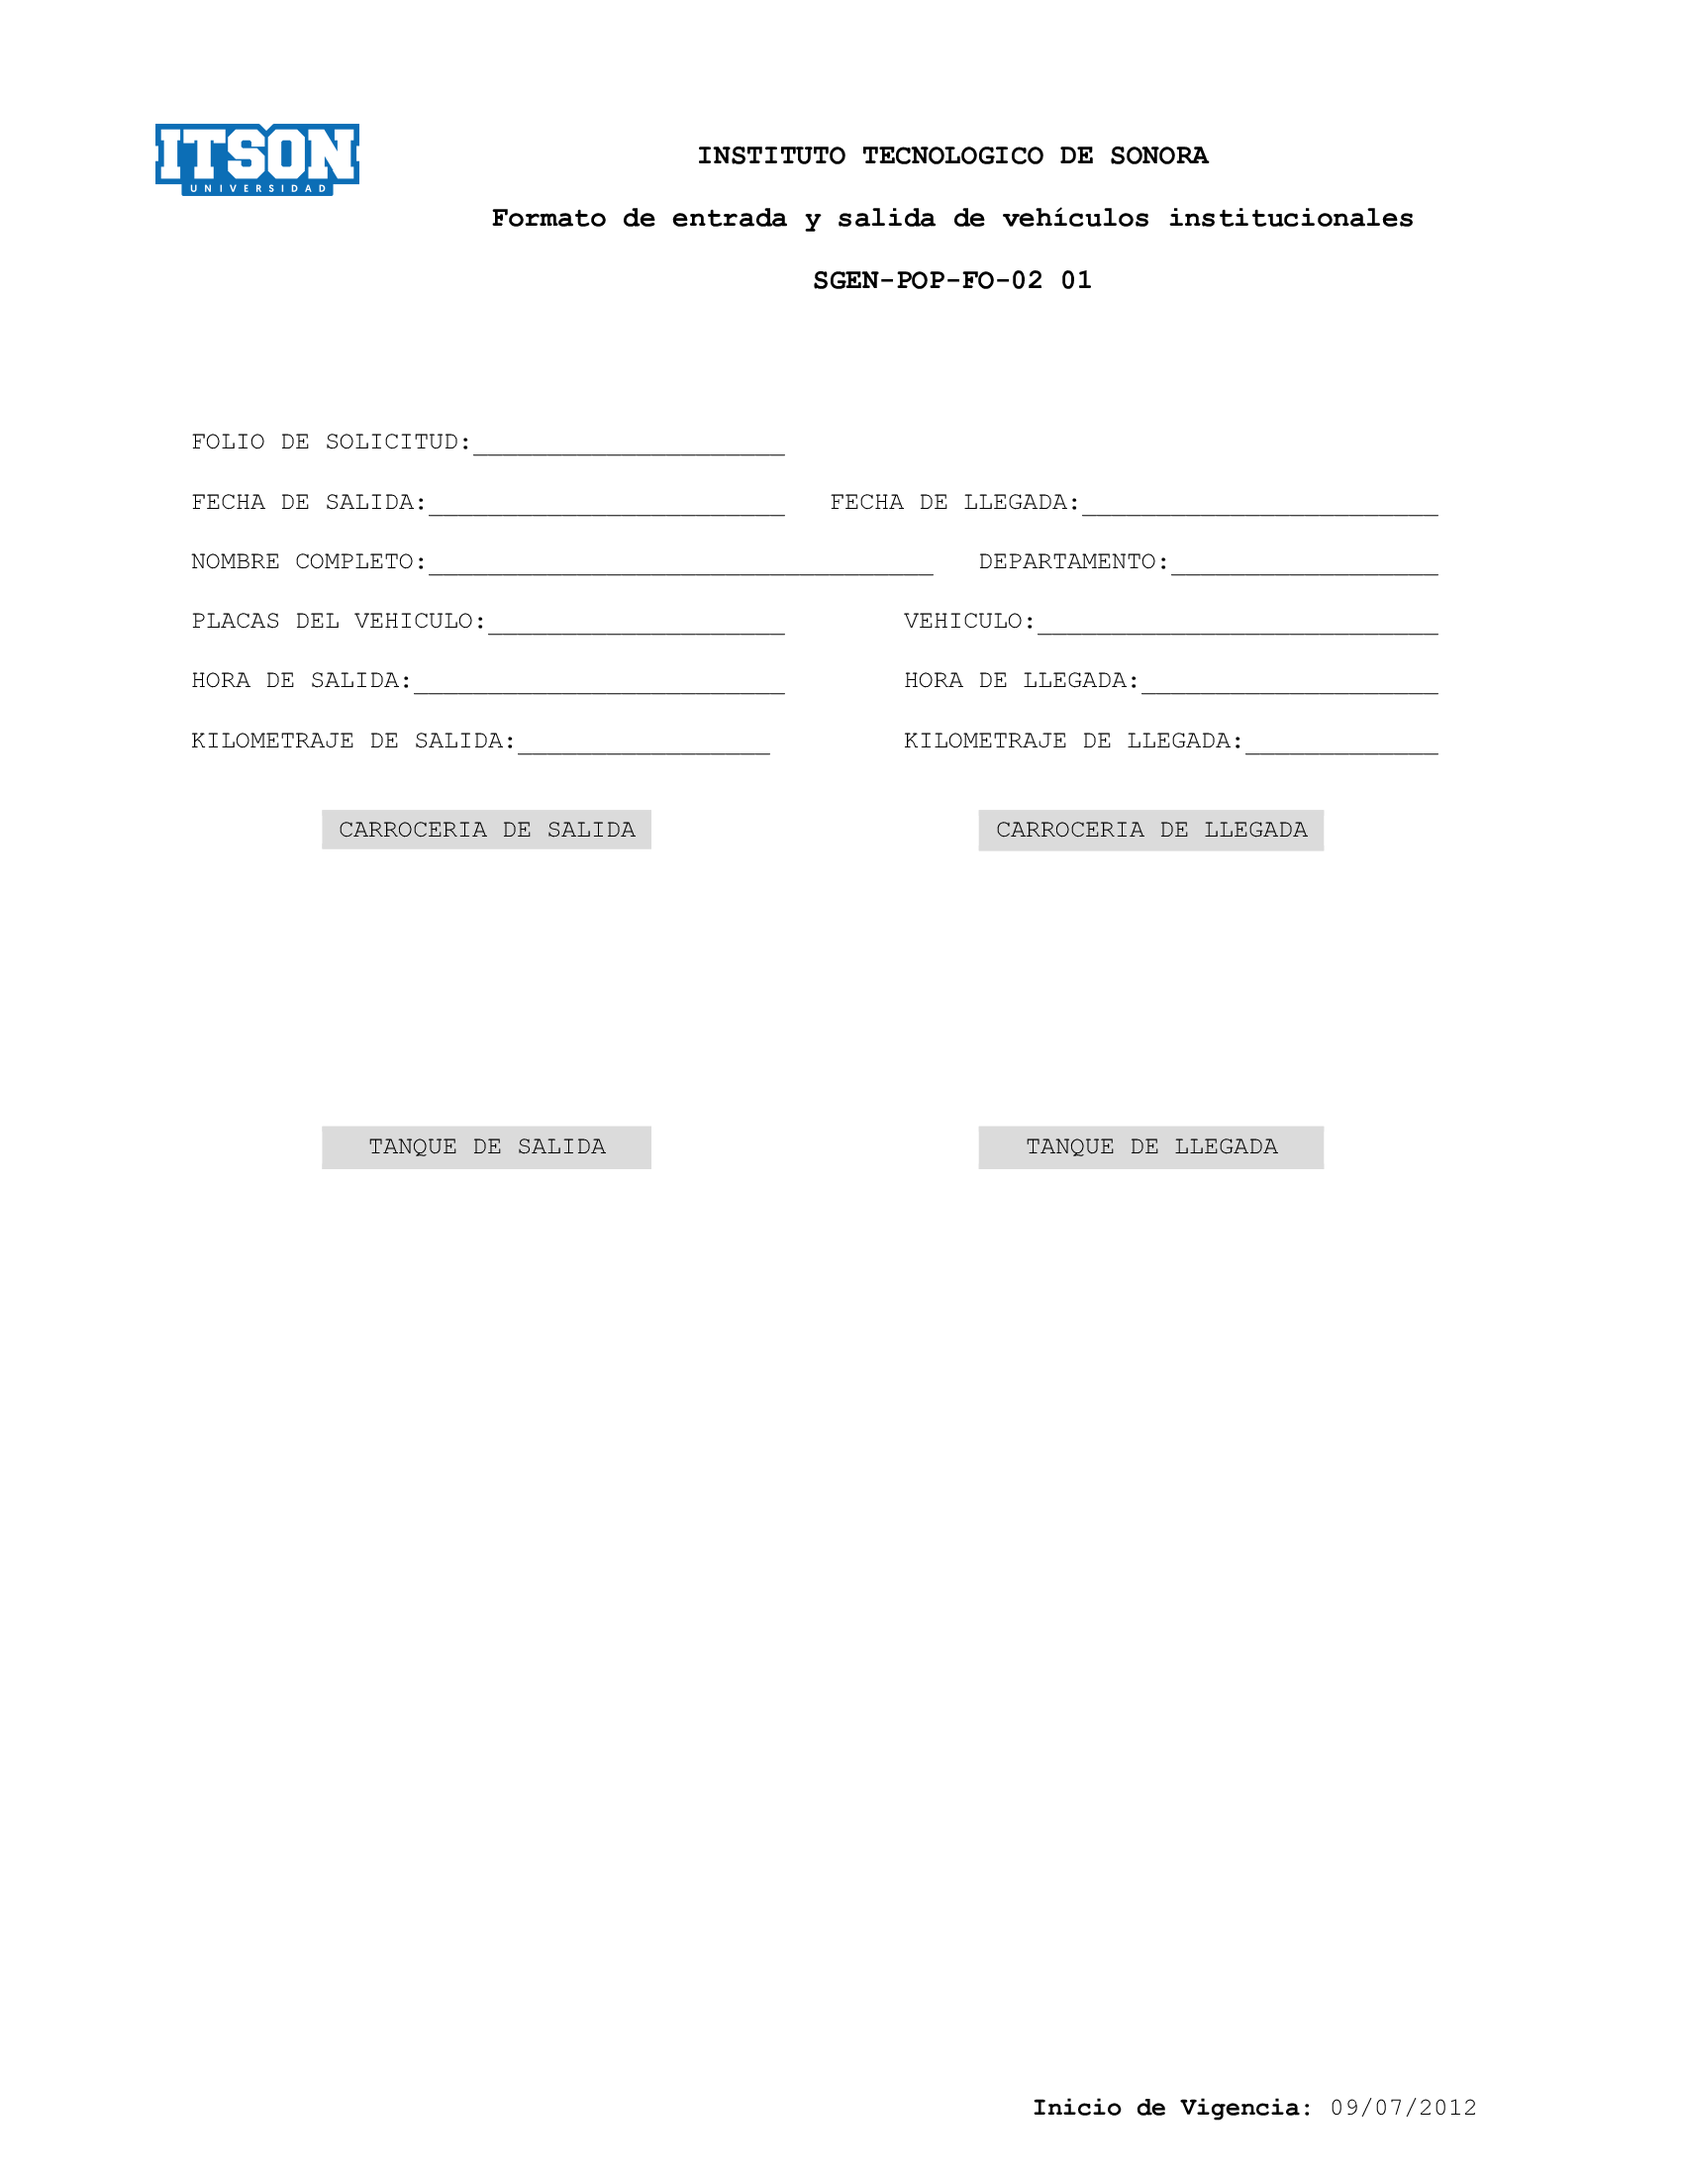
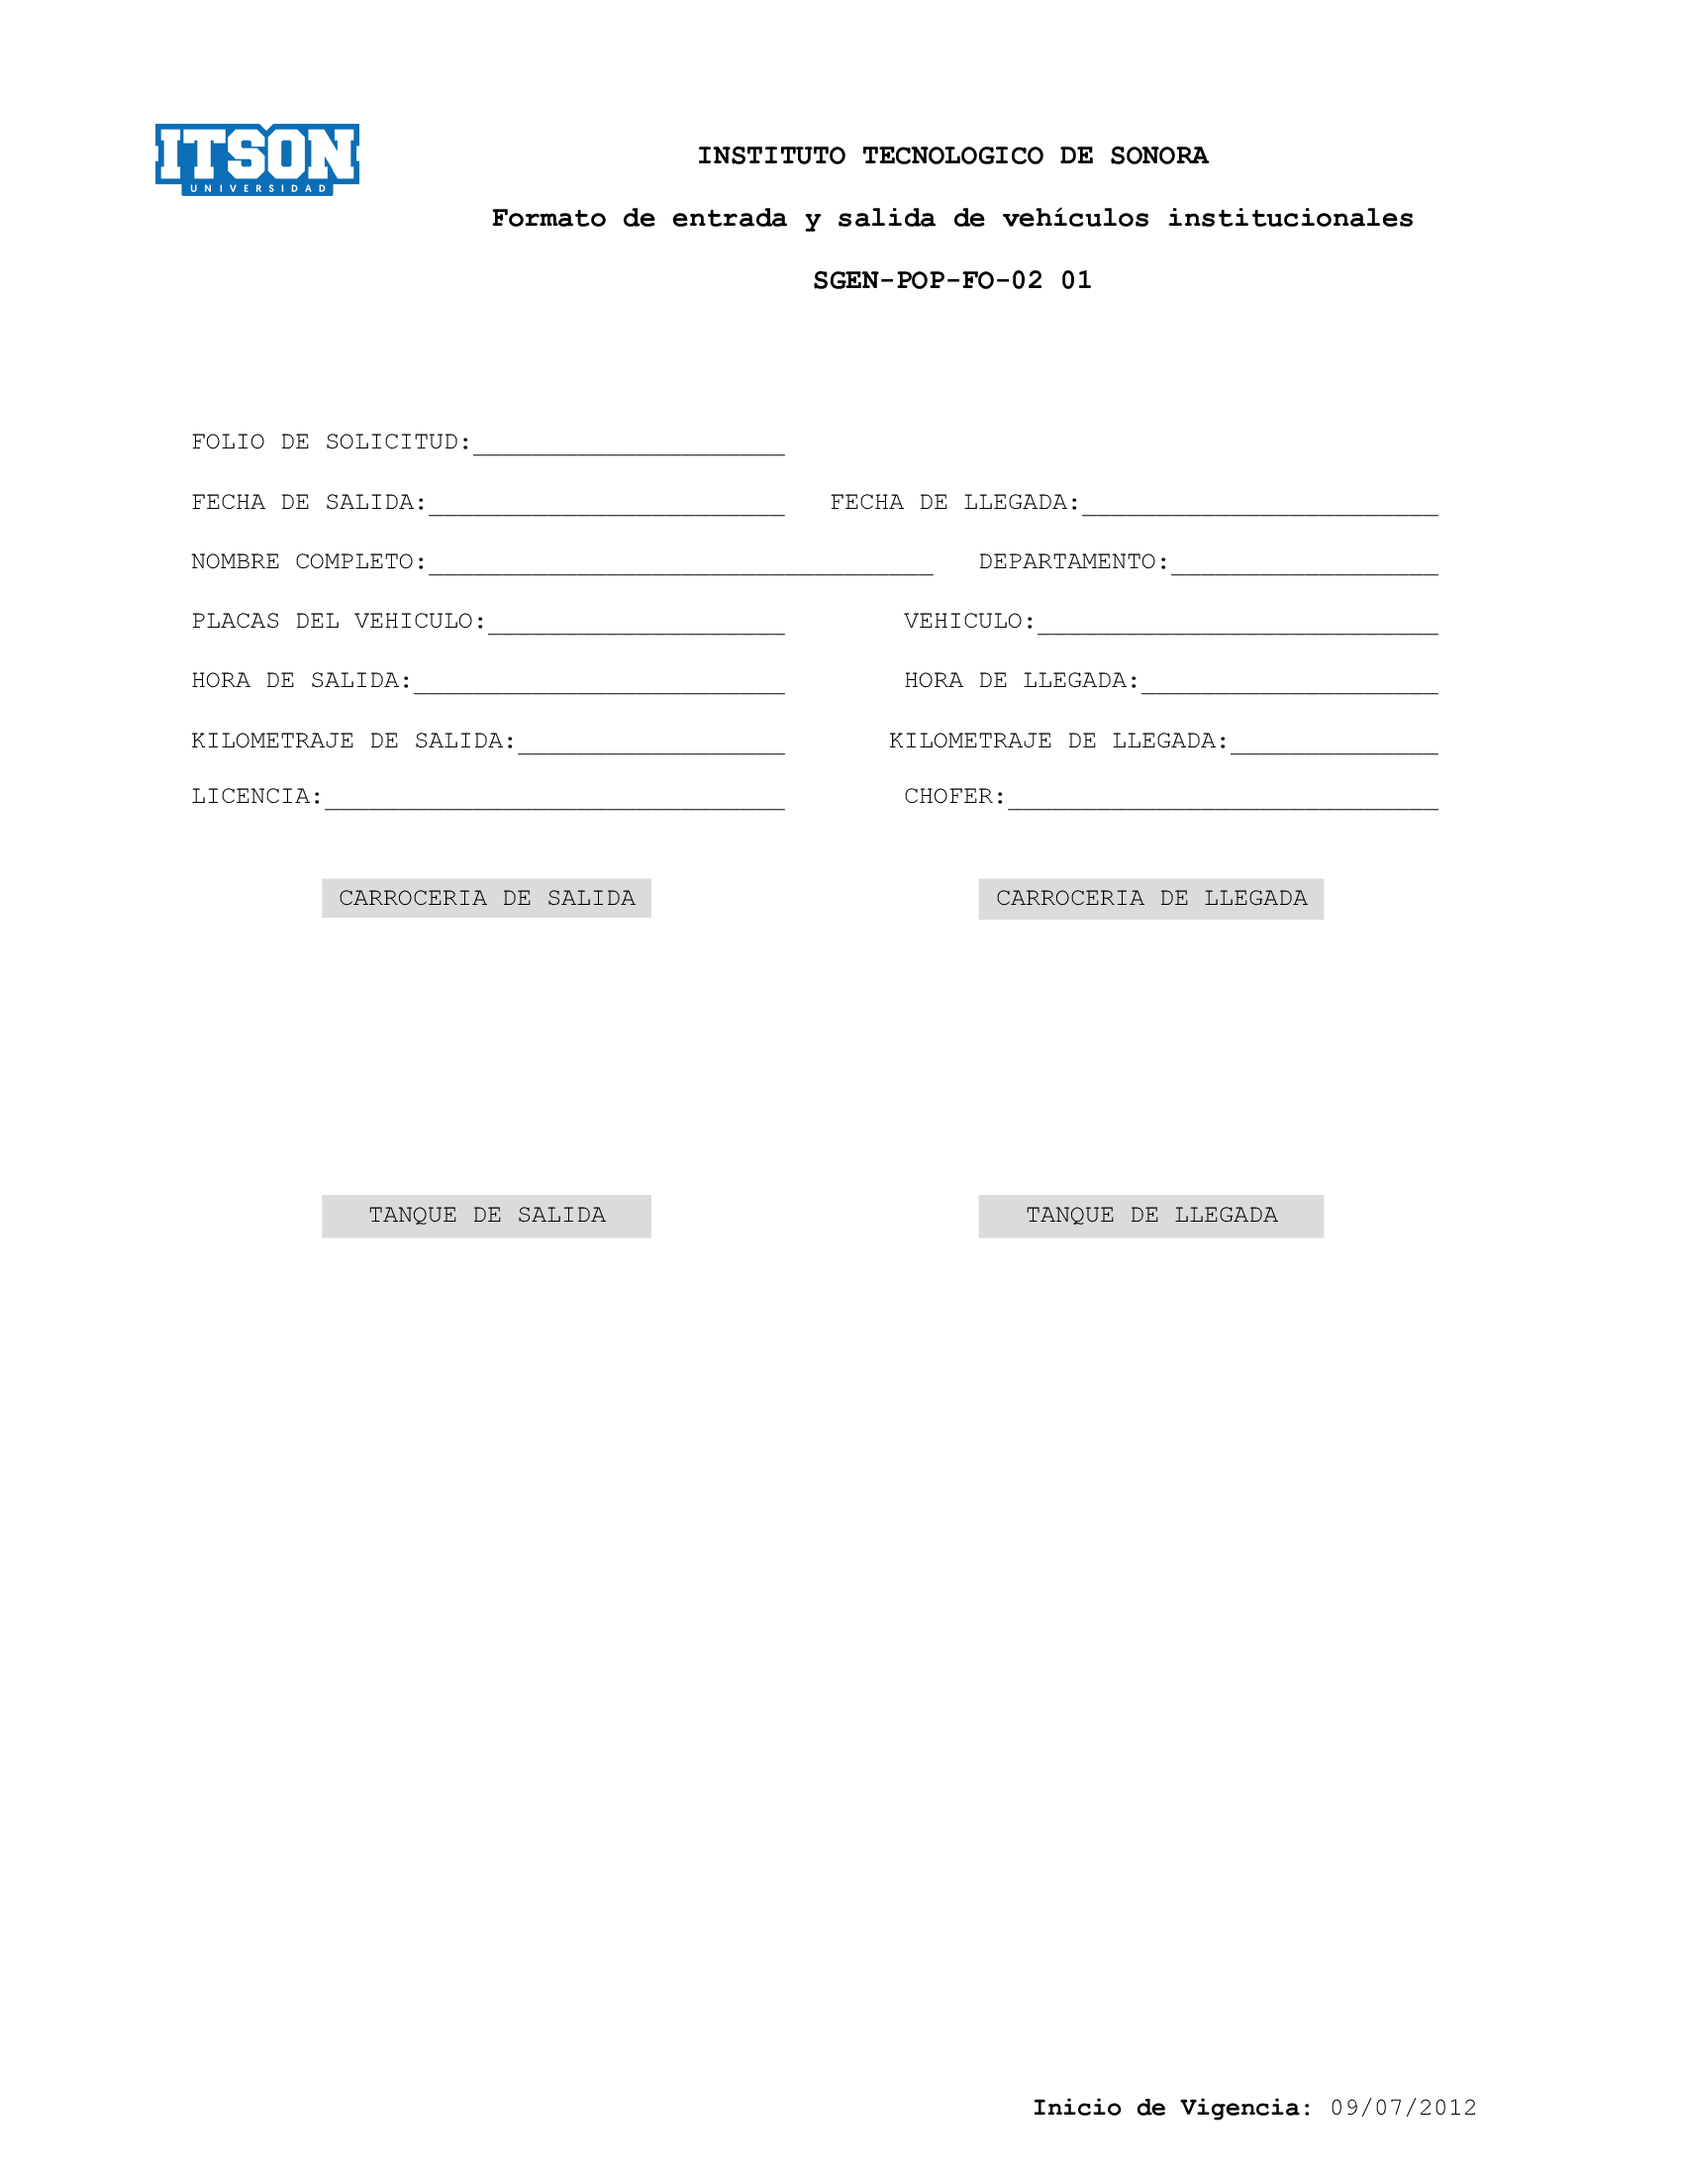
agregue campo chofer licencia al reporte

diff --git a/src/utils/PDF/generarReporteEntradaSalidaPDF.ts b/src/utils/PDF/generarReporteEntradaSalidaPDF.ts
@@ -47,33 +47,34 @@ export async function GenerarPDF(data: datosSalidaEntradaType) {
     imagesPromises.push(
       generateImageWithCoordinates(data.carroceriaSalida, imgCar).then((carSalida) => {
         return new Promise((resolve) => {
-          doc.addImage(carSalida, 'PNG', 35, 140, 50, 30, '', 'FAST');
+          doc.addImage(carSalida, 'PNG', 35, 150, 50, 30, '', 'FAST');
+          generarCoordenadas(doc);
           resolve();
         });
       })
     );
   }else{
-    doc.addImage(imgCar.src, 'PNG', 35, 140, 50, 30, '', 'FAST')
+    doc.addImage(imgCar.src, 'PNG', 35, 150, 50, 30, '', 'FAST')
   }
   
   if (data.golpesLlegada) {
     imagesPromises.push(
       generateImageWithCoordinates(data.carroceriaSalida, imgCar).then((carSalida) => {
         return new Promise((resolve) => {
-          doc.addImage(carSalida, 'PNG', 130, 140, 50, 30, '', 'FAST')
+          doc.addImage(carSalida, 'PNG', 130, 150, 50, 30, '', 'FAST')
           resolve();
         });
       })
     );
   }else{
-    doc.addImage(imgCar.src, 'PNG', 130, 140, 50, 30, '', 'FAST')
+    doc.addImage(imgCar.src, 'PNG', 130, 150, 50, 30, '', 'FAST')
   }
   
   if (data.porcentajeGasolinaSalida) {
     imagesPromises.push(
       generarMarcadorGasolina(data.porcentajeGasolinaSalida).then((img) => {
         return new Promise((resolve) => {
-          doc.addImage(img, 40, 190, 40, 20, '', 'FAST')
+          doc.addImage(img, 40, 205, 40, 20, '', 'FAST')
           resolve();
         });
       })
@@ -84,7 +85,7 @@ export async function GenerarPDF(data: datosSalidaEntradaType) {
     imagesPromises.push(
       generarMarcadorGasolina(data.porcentajeGasolinaLlegada).then((img) => {
         return new Promise((resolve) => {
-          doc.addImage(img, 135, 190, 40, 20, '', 'FAST')
+          doc.addImage(img, 135, 205, 40, 20, '', 'FAST')
           resolve();
         });
       })
@@ -133,11 +134,18 @@ export async function GenerarPDF(data: datosSalidaEntradaType) {
     doc.text(`${data.kilometrajeLlegada}`, 170, 120)
   }
 
+  if (data.licencia) {
+    doc.text(`${data.licencia}`, 40, 130)
+  }
+  if (data.chofer) {
+    doc.text(`${data.chofer}`, 140, 130)
+  }
 
 
 
-  doc.rect(35, 140, 50, 30) // rectangulo carSalida
-  doc.rect(130, 140, 50, 30) // rectangulo carLlegada
+
+  doc.rect(35, 150, 50, 30) // rectangulo carSalida
+  doc.rect(130, 150, 50, 30) // rectangulo carLlegada
 
   // Usar Promise.all para esperar a que todas las imágenes se carguen
   Promise.all(imagesPromises).then(async () => {

diff --git a/src/components/Formularios/inputs/InputName.tsx b/src/components/Formularios/inputs/InputName.tsx
@@ -1,15 +1,19 @@
 "use client";
 
 import { useDatosSalidaReducer } from "@/reducer/salidasReducer";
-import { useEffect, useReducer, useRef, useState } from "react";
+import React, { useEffect,  useState } from "react";
 
-function InputName({ text }) {
+interface Props{
+  text: string
+}
+
+function InputName({ text}: Props) {
   const [name, setName] = useState("");
-  const { datosState, dispatch } = useDatosSalidaReducer();
-  const inputRef = useRef(null);
+  const { state, dispatch } = useDatosSalidaReducer();
+ 
   
-  const handleSetNombre = () => {
-    setName(inputRef.current.value);
+  const handleSetNombre = (evt: React.ChangeEvent<HTMLInputElement>) => {
+    setName(evt.target.value);
   };
 
 useEffect(()=>{
@@ -31,13 +35,10 @@ useEffect(()=>{
           className="border  border-slate-600 rounded w-full py-2 px-3 text-gray-700 leading-tight focus:outline-none focus:shadow-outline
               shadow-md shadow-gray-300
               "
-          onChange={(e) => {
-            handleSetNombre();
-          }}
+          onChange={handleSetNombre}
           value={name}
           type="text"
           id=""
-          ref={inputRef}
         />
       </div>
     </>

diff --git a/src/components/Formularios/inputs/InputLicencia.tsx b/src/components/Formularios/inputs/InputLicencia.tsx
@@ -1,0 +1,35 @@
+'use client'
+import { useDatosSalidaReducer } from "@/reducer/salidasReducer";
+import { ChangeEvent, useEffect, useState } from "react";
+import LabelFormulario from "../LabelFormulario";
+
+function InputLicencia() {
+  const [licencia, setLicencia] = useState("");
+  const {  dispatch } = useDatosSalidaReducer();
+  
+  const handleSetLicencia = (e:ChangeEvent<HTMLInputElement>) => {
+    setLicencia(e.target.value);
+  };
+
+useEffect(()=>{
+dispatch({type:'SET_LICENCIA', payload:licencia})  
+},[licencia, dispatch])
+
+  return (
+    <>
+      <div className="">
+        <LabelFormulario>{'Licencia Conductor :'}</LabelFormulario>
+        <input
+          className="border  border-slate-600 rounded w-full py-2 px-3 text-gray-700 leading-tight focus:outline-none focus:shadow-outline
+              shadow-md shadow-gray-300
+              "
+          onChange={handleSetLicencia}
+          value={licencia}
+          type="text"
+          id=""
+        />
+      </div>
+    </>
+  );
+}
+export default InputLicencia;

diff --git a/src/components/complejos/FormularioSalida.jsx b/src/components/complejos/FormularioSalida.jsx
@@ -14,6 +14,7 @@ import InputAccesorios from "../Formularios/inputs/InputAccesorios";
 import InputObservaciones from "../Formularios/inputs/InputObservaciones";
 import InputChofer from "../Formularios/inputs/InputChofer";
 import MostrarDatosSalida from "../mostrarProvider/MostrarDatosSalida";
+import InputLicencia from "../Formularios/inputs/InputLicencia";
 
 function FormularioSalida() {
   return (
@@ -32,6 +33,7 @@ function FormularioSalida() {
           <InputHora />
           <InputDestino />
           <InputPlacaVehiculo />
+          <InputLicencia/>
           <InputAccesorios />
           <InputCarroceria />
         </div>

diff --git a/src/reducer/salidaEntradaReducer.tsx b/src/reducer/salidaEntradaReducer.tsx
@@ -59,6 +59,8 @@ export interface datosSalidaEntradaType  {
   horaLlegada: string | null;
   nombreSolicitante: string | null;
   placa: string | null;
+  licencia:string| null;
+  chofer: string| null;
   vehiculo: string | null;
   departamento: string | null;
   kilometrajeSalida: number | null;
@@ -174,6 +176,8 @@ export function DatosSalidaEntradaProvider({ children }: DatosSalidasProviderPro
     horaLlegada: "05:00 PM",
     nombreSolicitante: "John Doe",
     placa: "XYZ-789",
+    licencia: "ASDEFW23423DD342",
+    chofer: "Vitor Lopez Perez",
     vehiculo: "Sedan",
     departamento: "Logística",
     kilometrajeSalida: 5000,

diff --git a/src/components/Formularios/inputs/InputPlacaVehiculo.jsx b/src/components/Formularios/inputs/InputPlacaVehiculo.jsx
@@ -44,7 +44,7 @@ const {state,dispatch} = useDatosSalidaReducer()
   return (
     <div className="relative">
       <div className="flex flex-row justify-start  ">
-        <div className="w-48 sm:text-2xl">
+        <div className="w-48 ">
           <label className="block text-gray-500 font-semibold mb-2">
             Placa Vehiculo:
           </label>

diff --git a/src/components/Formularios/inputs/InputKilometraje.jsx b/src/components/Formularios/inputs/InputKilometraje.jsx
@@ -22,7 +22,7 @@ function InputKilometraje() {
 
   return (
     <>
-      <div className="w-60 sm:text-2xl ">
+      <div className="w-60  ">
         
           <LabelFormulario>Kilometraje de Salida:</LabelFormulario>
             <input

diff --git a/src/reducer/salidasReducer.tsx b/src/reducer/salidasReducer.tsx
@@ -168,6 +168,7 @@ export function DatosSalidasProvider({ children }: DatosSalidasProviderProps) {
       extintor: null,
       documentos: null,
     },
+
     observaciones: null,
     isSalida:null
   };
